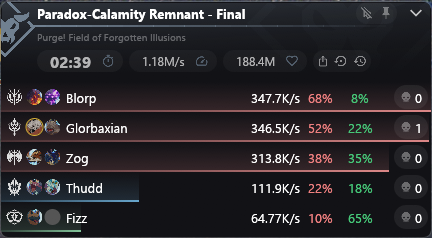
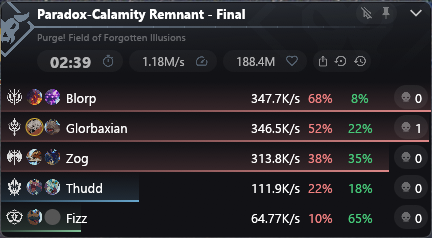
Center the title separator on the gutter emblem's tip
The fading separator was anchored to the title/subtitle gap, two points
above the emblem diamond's right tip, so its 5pt left bleed (the source's
Margin -5) cut across the diamond's outline instead of vanishing into it
the way the reference render does. Anchor it on header_emblem_rect's
vertical center instead: the emblem path's two horizontal corners sit
exactly at the square viewBox's mid-height, so the box center is the tip.
Rounded to whole points so the 2pt stroke lands on pixel rows.

Changed region(s): [[0.0602, 0.0882, 0.7222, 0.1176]]

diff --git a/crates/app/src/ui/header.rs b/crates/app/src/ui/header.rs
@@ -193,7 +193,9 @@ pub(super) fn draw_header(
             opacity.apply(HEADER_EMBLEM_COLOR),
         );
     }
-    for (segment_rect, color) in title_separator_segments(title_separator_rect(title_row)) {
+    for (segment_rect, color) in
+        title_separator_segments(title_separator_rect(title_row, text_band_height))
+    {
         ui.painter().rect_filled(segment_rect, 0.0, color);
     }
     // The menu control (issue #54, #71), in the strip at the right of the
@@ -2102,8 +2104,8 @@ pub(super) const TITLE_SEPARATOR_THICKNESS: f32 = 2.0;
 /// 13pt title glyphs. Pixel-measured against the reference render, the
 /// stroke actually sits in the gap between the title and subtitle rows: 5pt
 /// below the title baseline and ~5pt above the subtitle's cap-top, which for
-/// our geometry is the middle of the `HEADER_TITLE_SUBTITLE_GAP` under the
-/// title row (see `title_separator_rect`).
+/// our geometry is where the gutter emblem's right tip is — and the tip, not
+/// the gap, is what `title_separator_rect` anchors to.
 pub(super) const TITLE_SEPARATOR_LEFT_BLEED: f32 = 5.0;
 
 /// Number of thin strips `title_separator_segments` divides the fade into.
@@ -2112,21 +2114,34 @@ pub(super) const TITLE_SEPARATOR_LEFT_BLEED: f32 = 5.0;
 pub(super) const TITLE_SEPARATOR_SEGMENTS: usize = 24;
 
 /// The rect the fading title separator is painted over, for a title row
-/// `title_row`: it bleeds `TITLE_SEPARATOR_LEFT_BLEED` back into the gutter
-/// from the title's own left edge and clears the chevron's reserved strip on
-/// the right, sitting centered in the `HEADER_TITLE_SUBTITLE_GAP` — the gap
-/// between the title and subtitle rows in the reference render (see the
-/// `TITLE_SEPARATOR_LEFT_BLEED` doc comment for why this isn't the source
-/// margin's literal `7.5`).
-pub(super) fn title_separator_rect(title_row: egui::Rect) -> egui::Rect {
+/// `title_row` and the header text band (`text_band_height`) that starts at
+/// that row's top: it bleeds `TITLE_SEPARATOR_LEFT_BLEED` back into the
+/// gutter from the title's own left edge and clears the chevron's reserved
+/// strip on the right, sitting vertically on the *gutter emblem's right
+/// tip* (see the `TITLE_SEPARATOR_LEFT_BLEED` doc comment for why this
+/// isn't the source margin's literal `7.5`).
+///
+/// The tip, not the title/subtitle gap. In the reference render the stroke
+/// is the diamond's tip drawn onward to the right: the two are the same
+/// opaque SlateGray, they meet exactly, and that is why the 5pt left bleed
+/// is invisible there — it lies on the mark. Pinning the stroke to the gap
+/// instead put it ~2pt high of the tip, so the bleed cut across the
+/// diamond's outline rather than vanishing into it.
+///
+/// The tip is at the emblem *box's* vertical center, so that is what this
+/// centers on: `assets/icons/svg/emblem.svg`'s `viewBox` is the square
+/// `2.617 2.639 53.366 53.366` and its path is the diamond whose corners
+/// are that square's edge midpoints — the left and right corners are both
+/// at `y = 29.322`, which is the viewBox's own vertical center
+/// (`2.639 + 53.366 / 2`).
+///
+/// Rounded to whole points so the 2pt stroke lands on whole pixel rows at
+/// the usual 1.0 scale instead of straddling two half-covered ones.
+pub(super) fn title_separator_rect(title_row: egui::Rect, text_band_height: f32) -> egui::Rect {
     let left = title_row.left() + HEADER_GUTTER_WIDTH - TITLE_SEPARATOR_LEFT_BLEED;
     let right = (title_row.right() - HEADER_RIGHT_CONTROL_WIDTH).max(left);
-    // Centered in the title/subtitle gap rather than welded to the title
-    // row's underside: the gap is `HEADER_TITLE_SUBTITLE_GAP` (4pt) and the
-    // stroke is `TITLE_SEPARATOR_THICKNESS` (2pt), so 1pt of air is left
-    // above and below it — which is where the reference render puts it,
-    // between the two rows.
-    let top = title_row.bottom() + (HEADER_TITLE_SUBTITLE_GAP - TITLE_SEPARATOR_THICKNESS) / 2.0;
+    let tip_y = header_emblem_rect(title_row, text_band_height).center().y;
+    let top = (tip_y - TITLE_SEPARATOR_THICKNESS / 2.0).round();
     egui::Rect::from_min_max(
         egui::pos2(left, top),
         egui::pos2(right, top + TITLE_SEPARATOR_THICKNESS),
@@ -3895,7 +3910,7 @@ mod tests {
     #[test]
     fn title_separator_sits_below_the_title_row_and_clears_the_chevron() {
         let row = egui::Rect::from_min_size(egui::pos2(0.0, 0.0), egui::vec2(380.0, 20.0));
-        let rect = title_separator_rect(row);
+        let rect = title_separator_rect(row, header_text_band_height());
         let segments = title_separator_segments(rect);
         assert_eq!(
             segments.first().unwrap().0.left(),
@@ -3905,11 +3920,29 @@ mod tests {
             (segments.last().unwrap().0.right() - (row.right() - HEADER_RIGHT_CONTROL_WIDTH)).abs()
                 < 0.01
         );
-        assert_eq!(
-            rect.top(),
-            row.bottom() + (HEADER_TITLE_SUBTITLE_GAP - TITLE_SEPARATOR_THICKNESS) / 2.0
-        );
         assert_eq!(rect.height(), TITLE_SEPARATOR_THICKNESS);
+    }
+
+    /// The stroke is the gutter emblem's right tip drawn onward to the
+    /// right, so it is centered on the emblem box's vertical center — the
+    /// tip's own row, `emblem.svg`'s `viewBox` being square and its diamond
+    /// having its corners at that square's edge midpoints. Measured on a
+    /// live screenshot, the old title/subtitle-gap placement sat ~2pt above
+    /// the tip and cut across the diamond's outline with its left bleed.
+    #[test]
+    fn the_title_separator_is_centered_on_the_gutter_emblems_tip() {
+        let row =
+            egui::Rect::from_min_size(egui::pos2(0.0, 0.0), egui::vec2(380.0, TITLE_LINE_HEIGHT));
+        let band = header_text_band_height();
+        let separator = title_separator_rect(row, band);
+        let tip_y = header_emblem_rect(row, band).center().y;
+        assert!(
+            (separator.center().y - tip_y).abs() <= 0.5,
+            "separator center {} is off the emblem tip {tip_y}",
+            separator.center().y
+        );
+        // Whole points, so the 2pt stroke lands on whole pixel rows.
+        assert_eq!(separator.top(), separator.top().round());
     }
 
     /// Regression for the misread WPF margin (`TITLE_SEPARATOR_TOP_OFFSET`,
@@ -3937,7 +3970,7 @@ mod tests {
         let ink_bottom =
             row.top() + (row.height() - galley.rect.height()) / 2.0 + galley.rect.bottom();
 
-        let rect = title_separator_rect(row);
+        let rect = title_separator_rect(row, header_text_band_height());
         assert!(
             rect.top() >= ink_bottom,
             "separator top {} cuts through the title's ink bottom {ink_bottom}",
@@ -4197,9 +4230,10 @@ mod tests {
     /// The reference's subtitle `Margin="2 4 0 0"`
     /// (`DamageMeter.UI/HUD/Controls/MainView.xaml`, the area-name
     /// `TextBlock`): 4pt of air between the boss name's line box and the
-    /// area name's, not the layout's ordinary 2pt — and the 2pt accent
-    /// stroke sits centered in that gap, the way the reference render puts
-    /// it between the two rows rather than welded to the title's underside.
+    /// area name's, not the layout's ordinary 2pt — wide enough that the
+    /// 2pt accent stroke, which hangs off the gutter emblem's tip rather
+    /// than off this gap (`title_separator_rect`), still falls inside it
+    /// instead of into either row's ink.
     #[test]
     fn the_title_and_subtitle_are_four_points_apart() {
         assert_eq!(
@@ -4209,9 +4243,9 @@ mod tests {
 
         let row =
             egui::Rect::from_min_size(egui::pos2(0.0, 0.0), egui::vec2(380.0, TITLE_LINE_HEIGHT));
-        let separator = title_separator_rect(row);
-        assert_eq!(separator.top(), row.bottom() + 1.0);
-        assert_eq!(separator.bottom(), row.bottom() + 3.0);
+        let separator = title_separator_rect(row, header_text_band_height());
+        assert!(separator.top() >= row.bottom());
+        assert!(separator.bottom() <= row.bottom() + HEADER_TITLE_SUBTITLE_GAP);
     }
 
     /// Issue #91's header grid: `TITLE_LINE_HEIGHT + ITEM_SPACING_Y +
